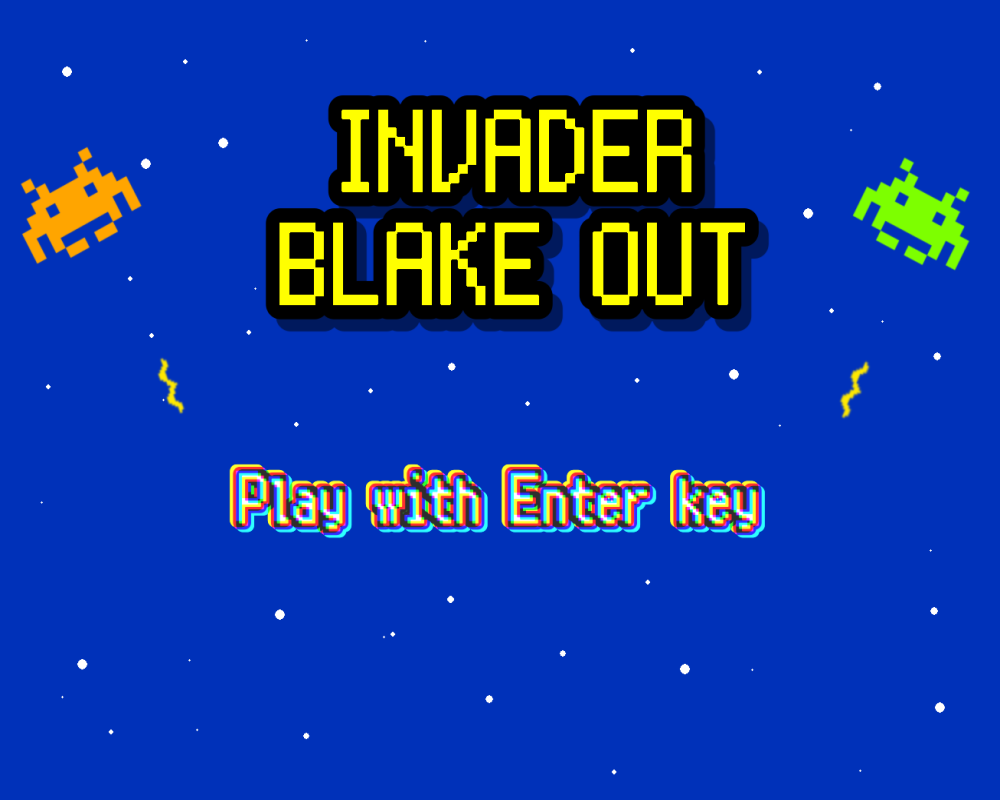
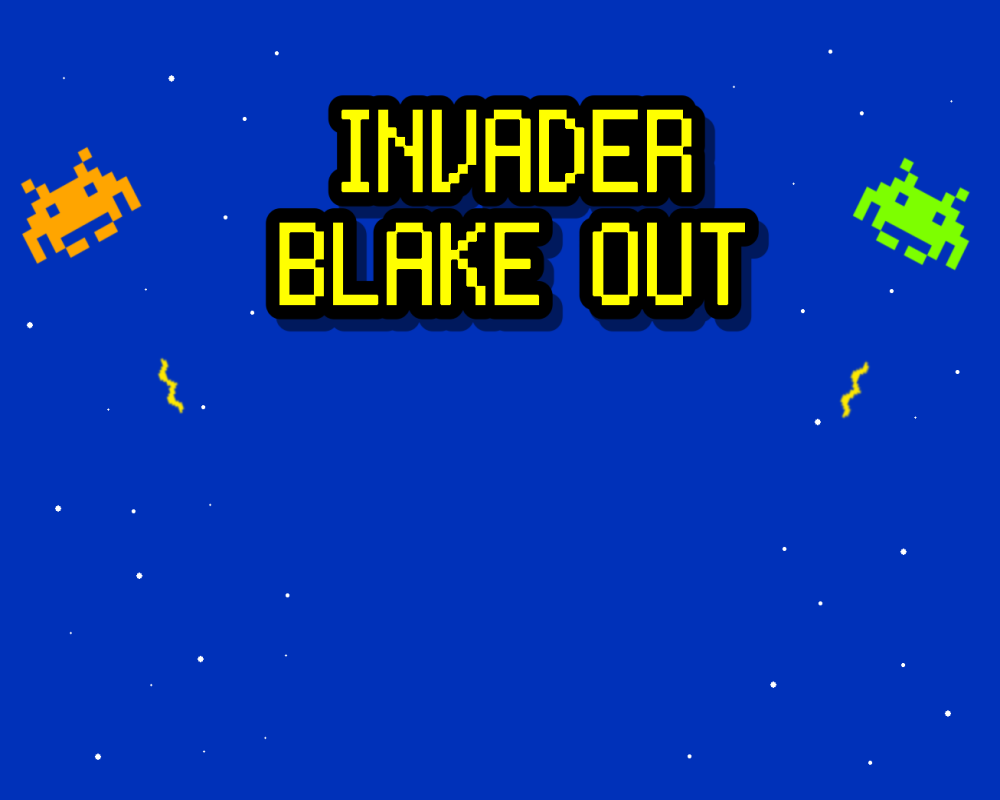
タイトルの点滅処理

diff --git a/src/Scene/SceneTitle/SceneTitle.h b/src/Scene/SceneTitle/SceneTitle.h
@@ -1,12 +1,13 @@
 #pragma once
 
 constexpr char TITLE_BG_HANDLE_PATH[] = { "data/Scene/Title/Titlescreen.png" };
+constexpr char ENTER_HANDLE_PATH = {"data/Scene/Title/Enter.png"};
 
 class SceneTitle
 {
 private:
 	int bg_handle;
-
+	int Enterhandle;
 public:
 	void Init();
 	bool Step();
